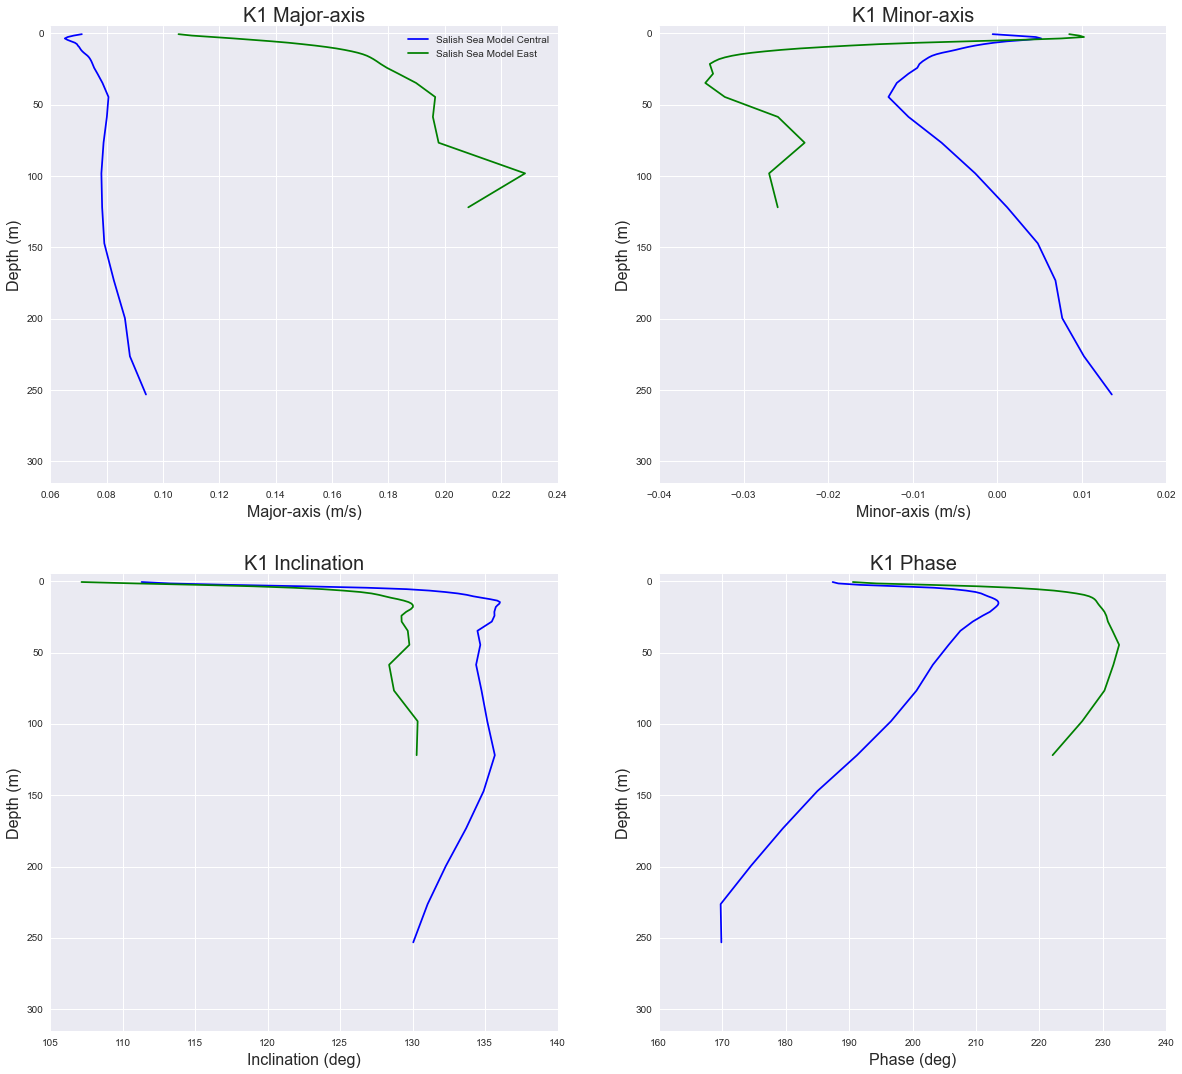
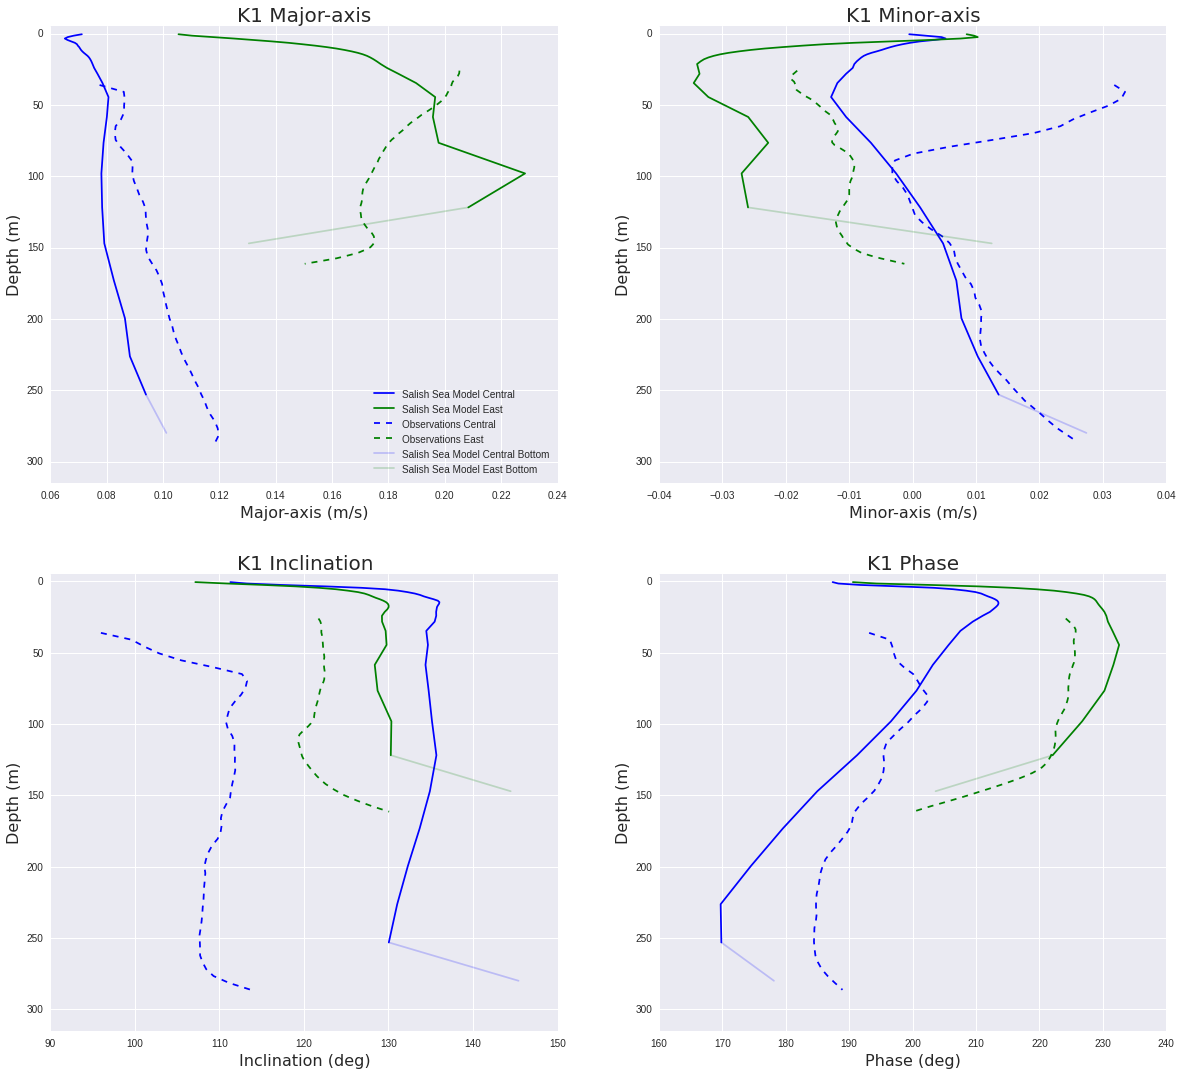
Added K1 profile image and phase for depth averaged M2/K1

diff --git a/tidalcurrents/tidal_current_comparison.rst b/tidalcurrents/tidal_current_comparison.rst
@@ -16,26 +16,26 @@ Nodes
 ~~~~~~~~
 
 * The ONC VENUS data has been processed by Dr. Rich Pawlowicz and Dr. Mark Halverson, these are the ADCP values in the table below and the opaque ellipses in the figure.
-* Note that the observational values are averaged over approximately 10-11 months where as the model output values were averaged over 8 months.
+* Note that the observational values are averaged over approximately 10-11 months where as the model output values were averaged over 8 months - Nov 26, 2014 to Jul 13, 2015. 
 
 Comparison of the M2 harmonic constituent
 ********************************************
-+---------+------------+------------+-----------------+
-|         | Major-Axis | Minor-Axis |  Inclination    |
-|         |    (m/s)   |   (m/s)    |  (deg ccw E)    |
-+---------+------------+------------+-----------------+
-| M2 - Central - (35-290m)                            |
-+---------+------------+------------+-----------------+
-| Model   | 0.16       | 0.013      | 130             |
-+---------+------------+------------+-----------------+
-| ADCP    | 0.18       | 0.006      | 109             |
-+---------+------------+------------+-----------------+
-| M2 - East - (20-160m)                               |
-+---------+------------+------------+-----------------+
-| Model   | 0.29       | -0.017     | 137             |
-+---------+------------+------------+-----------------+
-| ADCP    | 0.26       | -0.005     | 125             |
-+---------+------------+------------+-----------------+
++---------+------------+------------+-----------------+-------------+
+|         | Major-Axis | Minor-Axis |  Inclination    | Phase       |
+|         |    (m/s)   |   (m/s)    |  (deg ccw E)    | (deg GMT)   |
++---------+------------+------------+-----------------+-------------+
+| M2 - Central - (35-290m)                                          |
++---------+------------+------------+-----------------+-------------+
+| Model   | 0.16       | 0.013      | 130             | 305         |
++---------+------------+------------+-----------------+-------------+
+| ADCP    | 0.18       | 0.006      | 109             | 311         |
++---------+------------+------------+-----------------+-------------+
+| M2 - East - (20-160m)                                             |
++---------+------------+------------+-----------------+-------------+
+| Model   | 0.29       | -0.017     | 137             | 324         |
++---------+------------+------------+-----------------+-------------+
+| ADCP    | 0.26       | -0.005     | 125             | 320         |
++---------+------------+------------+-----------------+-------------+
 
 
 * The figure shows that the depth averaged observational and model output values agree quite well.
@@ -57,22 +57,22 @@ Comparison of the M2 harmonic constituent
 
 Comparison of the K1 harmonic constituent
 ********************************************
-+---------+------------+------------+-----------------+
-|         | Major-Axis | Minor-Axis |  Inclination    |
-|         |    (m/s)   |   (m/s)    |  (deg ccw E)    |
-+---------+------------+------------+-----------------+
-| K1 - Central - (35-290m)                            |
-+---------+------------+------------+-----------------+
-| Model   | 0.08       | 0.005      | 135             |
-+---------+------------+------------+-----------------+
-| ADCP    | 0.11       | 0.007      | 112             |
-+---------+------------+------------+-----------------+
-| K1 - East - (20-160m)                               |
-+---------+------------+------------+-----------------+
-| Model   | 0.19       | -0.025     | 131             |
-+---------+------------+------------+-----------------+
-| ADCP    | 0.17       | -0.011     | 122             |
-+---------+------------+------------+-----------------+
++---------+------------+------------+-----------------+-----------+
+|         | Major-Axis | Minor-Axis |  Inclination    | Phase     |
+|         |    (m/s)   |   (m/s)    |  (deg ccw E)    | (deg GMT) |
++---------+------------+------------+-----------------+-----------+
+| K1 - Central - (35-290m)                                        |
++---------+------------+------------+-----------------+-----------+
+| Model   | 0.08       | 0.005      | 135             | 184       |
++---------+------------+------------+-----------------+-----------+
+| ADCP    | 0.11       | 0.007      | 112             | 188       |
++---------+------------+------------+-----------------+-----------+
+| K1 - East - (20-160m)                                           |
++---------+------------+------------+-----------------+-----------+
+| Model   | 0.19       | -0.025     | 131             | 226       |
++---------+------------+------------+-----------------+-----------+
+| ADCP    | 0.17       | -0.011     | 122             | 220       |
++---------+------------+------------+-----------------+-----------+
 
 .. _K1_node_comparison:
 
